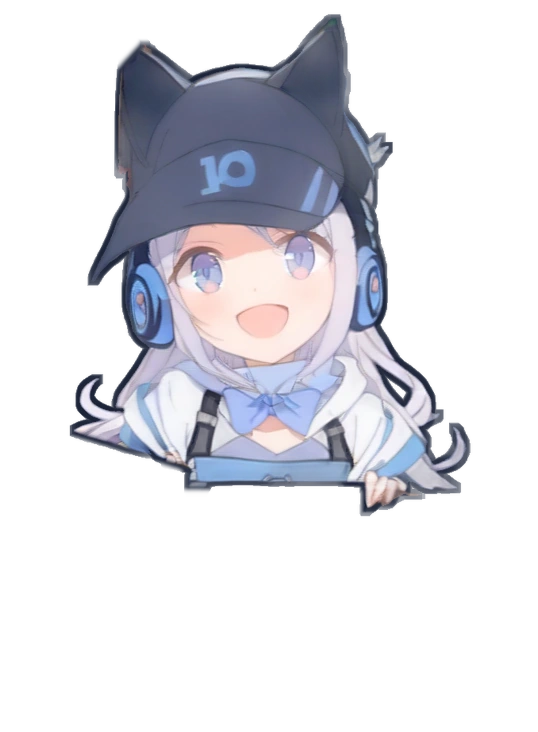
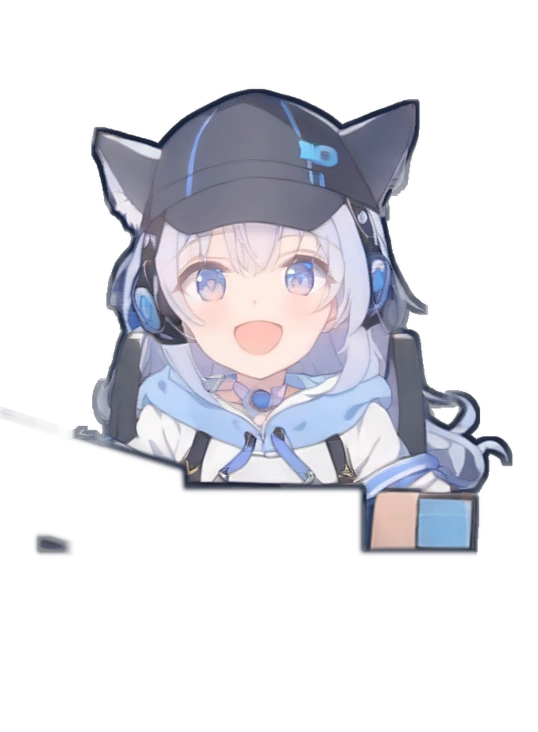
Match the Engineer's idle outfit, drop the plant behind her, fit 1280
The Engineer idle is repainted to match her working picture (cat-ear
cap, white hoodie with a light-blue hood, one headset). The Director's
floor plant stood in the back-row gap right behind her head and looked
like it grew out of her cap; every back-row gap is behind a front-row
head, so it is removed and the room re-rendered.

At 1280 px the queue rows' fixed columns were wider than the panel and
cut off the priority badges; the name column now gives way. The right
column's panels keep room for a header and one whole row.

Changed region(s): [[0.119, 0.0, 0.9517, 0.7814], [0.0595, 0.7213, 0.1487, 0.7814], [0.0, 0.541, 0.0297, 0.571]]

diff --git a/scripts/office/office.html b/scripts/office/office.html
@@ -78,7 +78,7 @@
   .panel { background: var(--glass); border: 1px solid var(--line); border-radius: 14px; padding: 12px 14px; min-height: 0; backdrop-filter: blur(6px); box-shadow: 0 10px 30px rgba(0, 0, 0, .35), inset 0 1px 0 rgba(255, 255, 255, .06); }
   .side .panel { overflow: hidden; display: flex; flex-direction: column; }
   .side .panel.grow { flex: 1 1 0; }
-  .side.right .panel.grow { flex: 0 1 auto; }
+  .side.right .panel.grow { flex: 0 1 auto; min-height: 124px; }  /* at least a header and one whole row */
   .side.right .panel:first-child { flex: 0 1 auto; min-height: 210px; }
   .side .panel .card.scroll { -webkit-mask-image: none; mask-image: none; scrollbar-gutter: stable; }
   .side .panel .scroll { overflow-y: auto; min-height: 0; flex: 1 1 auto; scrollbar-width: thin; -webkit-mask-image: linear-gradient(to bottom, #000 88%, transparent); mask-image: linear-gradient(to bottom, #000 88%, transparent); padding-bottom: 8px; }
@@ -148,7 +148,7 @@
   .log time { color: var(--sub); font-variant-numeric: tabular-nums; }
   .log .who { font-weight: 800; white-space: nowrap; }
   .log .tx { overflow: hidden; text-overflow: ellipsis; white-space: nowrap; }
-  .q { display: grid; grid-template-columns: 24px minmax(0, 1fr) 130px 34px; align-items: center; gap: 8px; padding: 5px 0; border-bottom: 1px solid rgba(255, 255, 255, .07); font-size: 12.5px; }
+  .q { display: grid; grid-template-columns: 24px minmax(0, 1fr) minmax(0, 130px) 34px; align-items: center; gap: 8px; padding: 5px 0; border-bottom: 1px solid rgba(255, 255, 255, .07); font-size: 12.5px; }
   .q:last-child { border-bottom: none; }
   .q .n { width: 22px; height: 22px; border-radius: 6px; background: rgba(255, 255, 255, .09); display: grid; place-items: center; font-weight: 800; font-size: 11px; }
   .q .s { min-width: 0; overflow: hidden; text-overflow: ellipsis; white-space: nowrap; }

diff --git a/scripts/office/scene.py b/scripts/office/scene.py
@@ -1262,7 +1262,6 @@ def station_props(role, spec, glow):
                 scale=(1, 1, 0.8),
             )
         )
-        objs += plant("dir-plant", (*floor, 0), 1.25)
     if role == "game-designer":
         for i, col in enumerate(("#fde047", "#f9a8d4", "#86efac")):
             objs.append(
